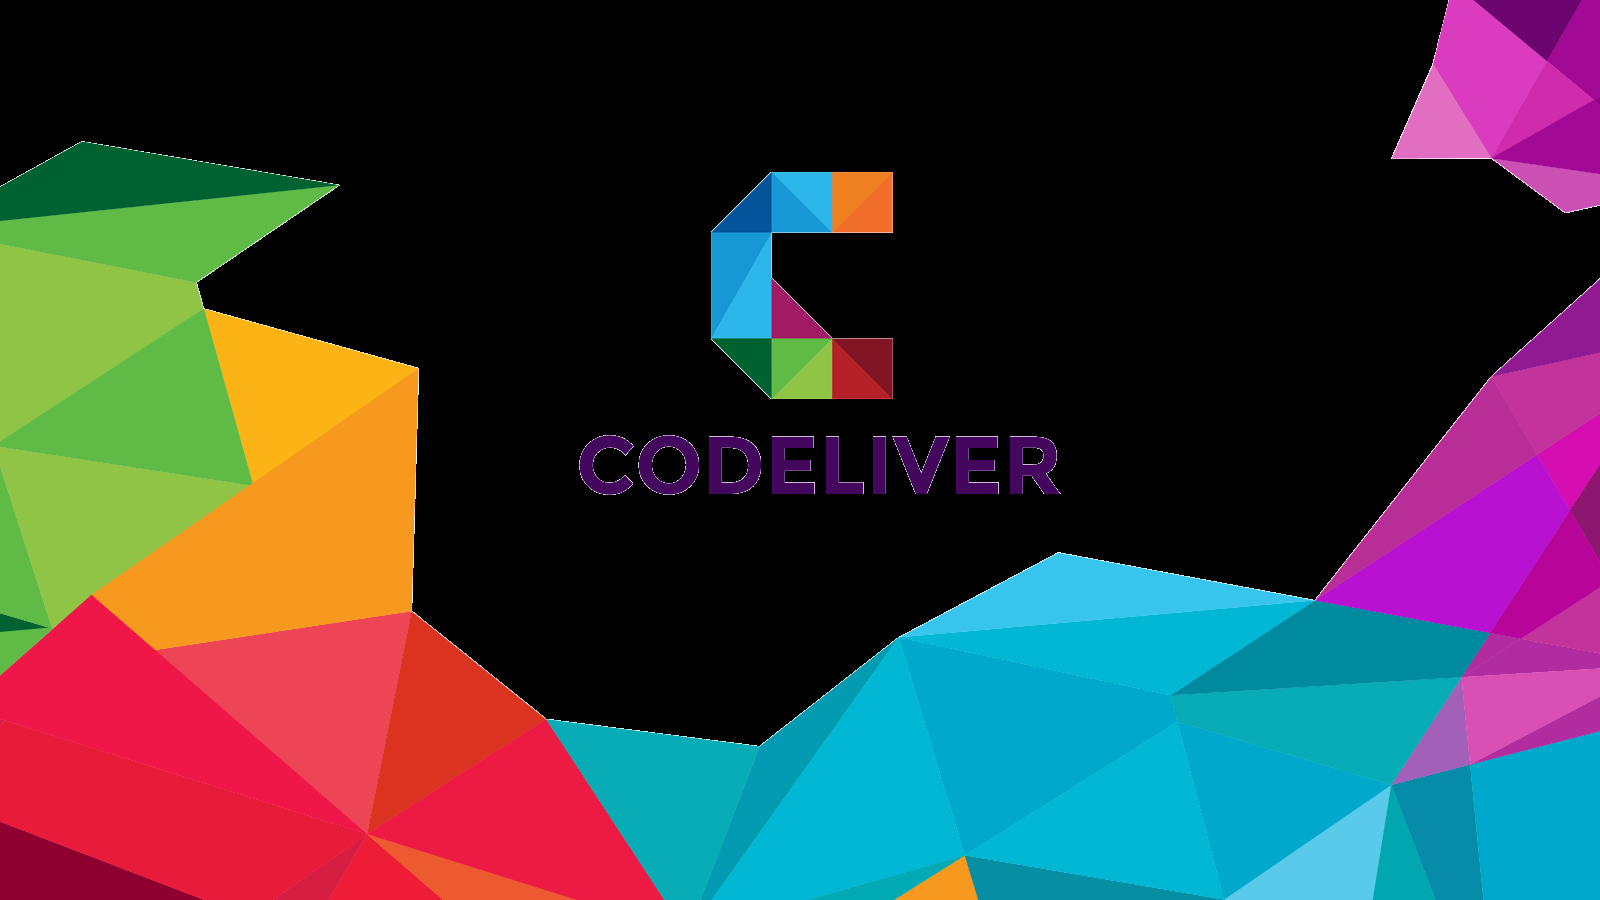
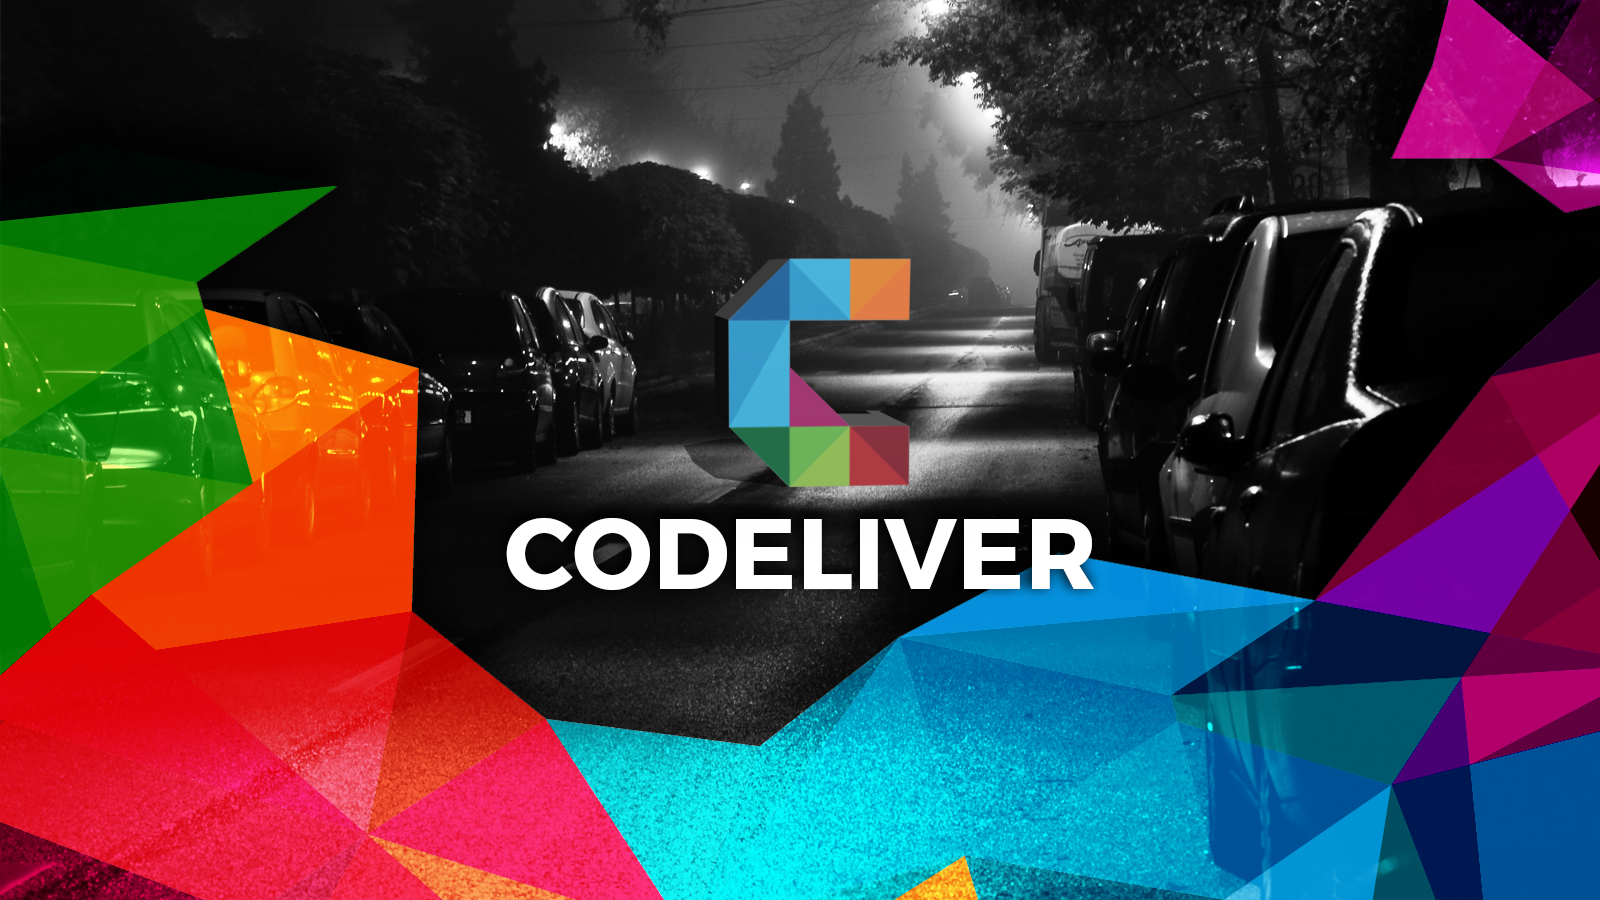
new main header

diff --git a/css/style.css b/css/style.css
@@ -125,7 +125,7 @@ nav {
 
 .slider {
 	background-color: #fff;
-	background: url('../img/tlo5.png') center/cover;
+	background: url('../img/tlo6.png') center/cover;
 	min-height: 100vh;
 	margin-top: 2vh;
 }
